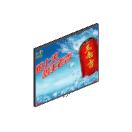
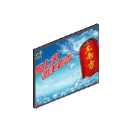
Fit billboard frames within height limits

Changed region(s): [[0.2424, 0.1515, 0.7576, 0.8485], [0.6061, 0.5152, 0.6364, 0.5455], [0.4242, 0.6061, 0.4545, 0.6364]]

diff --git a/game/src/sim/billboards.ts b/game/src/sim/billboards.ts
@@ -29,6 +29,8 @@ export interface BillboardSpec {
   panelH: number
   /** Poster centre height above the floor top, metres. */
   panelZ: number
+  /** Total framed height for large formats, metres. */
+  totalHeight?: number
   /** The poster silhouette this panel is cut for (`AD_POSTERS[].shapes`). */
   shape: BillboardShape
   /**
@@ -46,10 +48,10 @@ export interface BillboardSpec {
  * without stretching, and the portrait and square sit inside their cells.
  */
 export const BILLBOARD_SPECS: Record<BillboardVariant, BillboardSpec> = {
-  '16x9-3m': { variant: '16x9-3m', label: msg('billboard_16x9_3m'), w: 6, panelW: 3 * 16 / 9, panelH: 3, panelZ: 3 / 2 + 0.25, shape: 'landscape', family: ['16x9-3m'] },
-  '16x9-4m': { variant: '16x9-4m', label: msg('billboard_16x9_4m'), w: 8, panelW: 4 * 16 / 9, panelH: 4, panelZ: 4 / 2 + 0.25, shape: 'landscape', family: ['16x9-4m'] },
-  '4x3-3m': { variant: '4x3-3m', label: msg('billboard_4x3_3m'), w: 5, panelW: 3 * 4 / 3, panelH: 3, panelZ: 3 / 2 + 0.25, shape: 'landscape', family: ['4x3-3m'] },
-  '4x3-4m': { variant: '4x3-4m', label: msg('billboard_4x3_4m'), w: 6, panelW: 4 * 4 / 3, panelH: 4, panelZ: 4 / 2 + 0.25, shape: 'landscape', family: ['4x3-4m'] },
+  '16x9-3m': { variant: '16x9-3m', label: msg('billboard_16x9_3m'), w: 6, panelW: (3 - 0.24) * 16 / 9, panelH: 3 - 0.24, panelZ: 3 / 2, totalHeight: 3, shape: 'landscape', family: ['16x9-3m'] },
+  '16x9-4m': { variant: '16x9-4m', label: msg('billboard_16x9_4m'), w: 7, panelW: (4 - 0.24) * 16 / 9, panelH: 4 - 0.24, panelZ: 4 / 2, totalHeight: 4, shape: 'landscape', family: ['16x9-4m'] },
+  '4x3-3m': { variant: '4x3-3m', label: msg('billboard_4x3_3m'), w: 4, panelW: (3 - 0.24) * 4 / 3, panelH: 3 - 0.24, panelZ: 3 / 2, totalHeight: 3, shape: 'landscape', family: ['4x3-3m'] },
+  '4x3-4m': { variant: '4x3-4m', label: msg('billboard_4x3_4m'), w: 6, panelW: (4 - 0.24) * 4 / 3, panelH: 4 - 0.24, panelZ: 4 / 2, totalHeight: 4, shape: 'landscape', family: ['4x3-4m'] },
   wide: {
     variant: 'wide',
     label: msg('landscape_16_9'),

diff --git a/game/src/sim/placement.ts b/game/src/sim/placement.ts
@@ -463,7 +463,7 @@ function flatEnvelope(m: Module): ModuleBox | null {
       // same wall is not "in the way" of a poster five feet above it.
       const spec = billboardSpec(m.cfg?.variant)
       const pz = m.z + 1 + spec.panelZ
-      const half = spec.panelH / 2 + FRAME_PAD
+      const half = spec.panelH / 2 + (spec.totalHeight ? 0.12 : FRAME_PAD)
       return wallPanelBox(m, billboardCells(m), pz - half, pz + half)
     }
     case 'glass': {
@@ -886,10 +886,8 @@ export function wallMountCourses(m: Module): number[] {
     case 'monitor': return m.cfg.mount === 'wall' ? [0, 1, 2] : []
     case 'billboard': {
       const spec = billboardSpec(m.cfg?.variant)
-      if (spec.panelH < 3) return [0]
-      const bottom = Math.max(0, Math.floor(spec.panelZ - spec.panelH / 2 - 0.26))
-      const top = Math.ceil(spec.panelZ + spec.panelH / 2 + 0.12)
-      return Array.from({ length: top - bottom }, (_, i) => bottom + i)
+      if (!spec.totalHeight) return [0]
+      return Array.from({ length: spec.totalHeight }, (_, i) => i)
     }
     case 'exit':
       // 地面 exits use the anchor block as their single wall attachment.

diff --git a/game/src/render/models/pieces/BillboardModel.ts b/game/src/render/models/pieces/BillboardModel.ts
@@ -2,7 +2,7 @@
 
 import * as THREE from 'three'
 import { omitModelDetail, surfaceModelDetail } from '../../modelDetail.ts'
-import { PieceBuilder, slab, plate, plateOf } from '../PieceBuilder.ts'
+import { PieceBuilder, slab, plateOf } from '../PieceBuilder.ts'
 import type { ModuleContext } from '../PieceBuilder.ts'
 import { billboardSpec, posterFor } from '../../../sim/billboards.ts'
 import { normRot, rotateLocal } from '../../../sim/track.ts'
@@ -41,11 +41,6 @@ function buildBillboard(ctx: ModuleContext, mod: Extract<Module, { type: 'billbo
   const ad = plateOf(g, face.geometry, face.material, 0, -0.315, pz, Math.PI)
   ad.renderOrder = 1
   ad.userData.adPoster = poster.slug
-  // A small illuminated 广告 / AD bar under the frame.
-  const barZ = pz - ph / 2 - 0.18
-  omitModelDetail(slab(g, ctx.mats.black, 0, -0.36, barZ, Math.min(0.5, pw * 0.7), 0.03, 0.16))
-  const label = plate(g, ctx.mats.glow, Math.min(0.42, pw * 0.6), 0.1, 0, -0.335, barZ, Math.PI)
-  label.renderOrder = 1
   g.userData.adScreen = ad
   return g
 }

diff --git a/game/src/app/store/catalog.ts b/game/src/app/store/catalog.ts
@@ -125,8 +125,8 @@ export const MODULE_OPTIONS: ModuleOption[] = [
   { id: 'billboard-portrait', label: msg('portrait_0_7_1'), type: 'billboard', w: 1, h: 1 },
   { id: 'billboard-square', label: msg('square_1_1'), type: 'billboard', w: 1, h: 1 },
   { id: 'billboard-16x9-3m', label: msg('billboard_16x9_3m'), type: 'billboard', w: 6, h: 3 },
-  { id: 'billboard-16x9-4m', label: msg('billboard_16x9_4m'), type: 'billboard', w: 8, h: 4 },
-  { id: 'billboard-4x3-3m', label: msg('billboard_4x3_3m'), type: 'billboard', w: 5, h: 3 },
+  { id: 'billboard-16x9-4m', label: msg('billboard_16x9_4m'), type: 'billboard', w: 7, h: 4 },
+  { id: 'billboard-4x3-3m', label: msg('billboard_4x3_3m'), type: 'billboard', w: 4, h: 3 },
   { id: 'billboard-4x3-4m', label: msg('billboard_4x3_4m'), type: 'billboard', w: 6, h: 4 },
   { id: 'monitor-ceiling', label: msg('monitor_ceiling'), type: 'monitor', w: 1, h: 1 },
   { id: 'monitor-wall', label: msg('monitor_wall'), type: 'monitor', w: 3, h: 1 },

diff --git a/.agents/skills/metro-repo/references/performance.md b/.agents/skills/metro-repo/references/performance.md
@@ -158,16 +158,16 @@ Never raise a limit to conceal a regression.
 | exit-virtual | 46 | 60 |
 | road | 10 | 50 |
 | stair-block | 34 | 48 |
-| billboard-wide | 6 | 40 |
-| billboard-standard | 6 | 40 |
-| billboard-large | 6 | 40 |
-| billboard-panorama | 6 | 40 |
-| billboard-portrait | 6 | 40 |
-| billboard-square | 6 | 40 |
-| billboard-16x9-3m | 6 | 40 |
-| billboard-16x9-4m | 6 | 40 |
-| billboard-4x3-3m | 6 | 40 |
-| billboard-4x3-4m | 6 | 40 |
+| billboard-wide | 4 | 26 |
+| billboard-standard | 4 | 26 |
+| billboard-large | 4 | 26 |
+| billboard-panorama | 4 | 26 |
+| billboard-portrait | 4 | 26 |
+| billboard-square | 4 | 26 |
+| billboard-16x9-3m | 4 | 26 |
+| billboard-16x9-4m | 4 | 26 |
+| billboard-4x3-3m | 4 | 26 |
+| billboard-4x3-4m | 4 | 26 |
 | linemap-stand | 16 | 40 |
 | hanger-roof | 6 | 36 |
 | hanger-post | 14 | 36 |
@@ -332,16 +332,16 @@ faces; they do not establish FPS or GPU cost. Records:
 | exit-virtual | 46 / 60 | Three printed sides and shaped metro-logo collar. |
 | road | 10 / 50 | Road surface plus four lane/edge markings. |
 | stair-block | 34 / 48 | All four solid treads, exposed risers and closed side silhouette. |
-| billboard-wide | 6 / 40 | Original cropped artwork, frame surface and illuminated AD label. |
-| billboard-standard | 6 / 40 | Original cropped artwork, frame surface and illuminated AD label. |
-| billboard-large | 6 / 40 | Original cropped artwork, frame surface and illuminated AD label. |
-| billboard-panorama | 6 / 40 | Original cropped artwork, frame surface and illuminated AD label. |
-| billboard-portrait | 6 / 40 | Original cropped artwork, frame surface and illuminated AD label. |
-| billboard-square | 6 / 40 | Original cropped artwork, frame surface and illuminated AD label. |
-| billboard-16x9-3m | 6 / 40 | Original cropped artwork, frame surface and illuminated AD label. |
-| billboard-16x9-4m | 6 / 40 | Original cropped artwork, frame surface and illuminated AD label. |
-| billboard-4x3-3m | 6 / 40 | Original cropped artwork, frame surface and illuminated AD label. |
-| billboard-4x3-4m | 6 / 40 | Original cropped artwork, frame surface and illuminated AD label. |
+| billboard-wide | 4 / 26 | Original cropped artwork and frame surface. |
+| billboard-standard | 4 / 26 | Original cropped artwork and frame surface. |
+| billboard-large | 4 / 26 | Original cropped artwork and frame surface. |
+| billboard-panorama | 4 / 26 | Original cropped artwork and frame surface. |
+| billboard-portrait | 4 / 26 | Original cropped artwork and frame surface. |
+| billboard-square | 4 / 26 | Original cropped artwork and frame surface. |
+| billboard-16x9-3m | 4 / 26 | Original cropped artwork and frame surface. |
+| billboard-16x9-4m | 4 / 26 | Original cropped artwork and frame surface. |
+| billboard-4x3-3m | 4 / 26 | Original cropped artwork and frame surface. |
+| billboard-4x3-4m | 4 / 26 | Original cropped artwork and frame surface. |
 | linemap-stand | 16 / 40 | Base, support and two separately oriented readable map faces. |
 | hanger-roof | 6 / 36 | Support bar visible from every direction. |
 | hanger-post | 14 / 36 | Bar, upright and base. |
